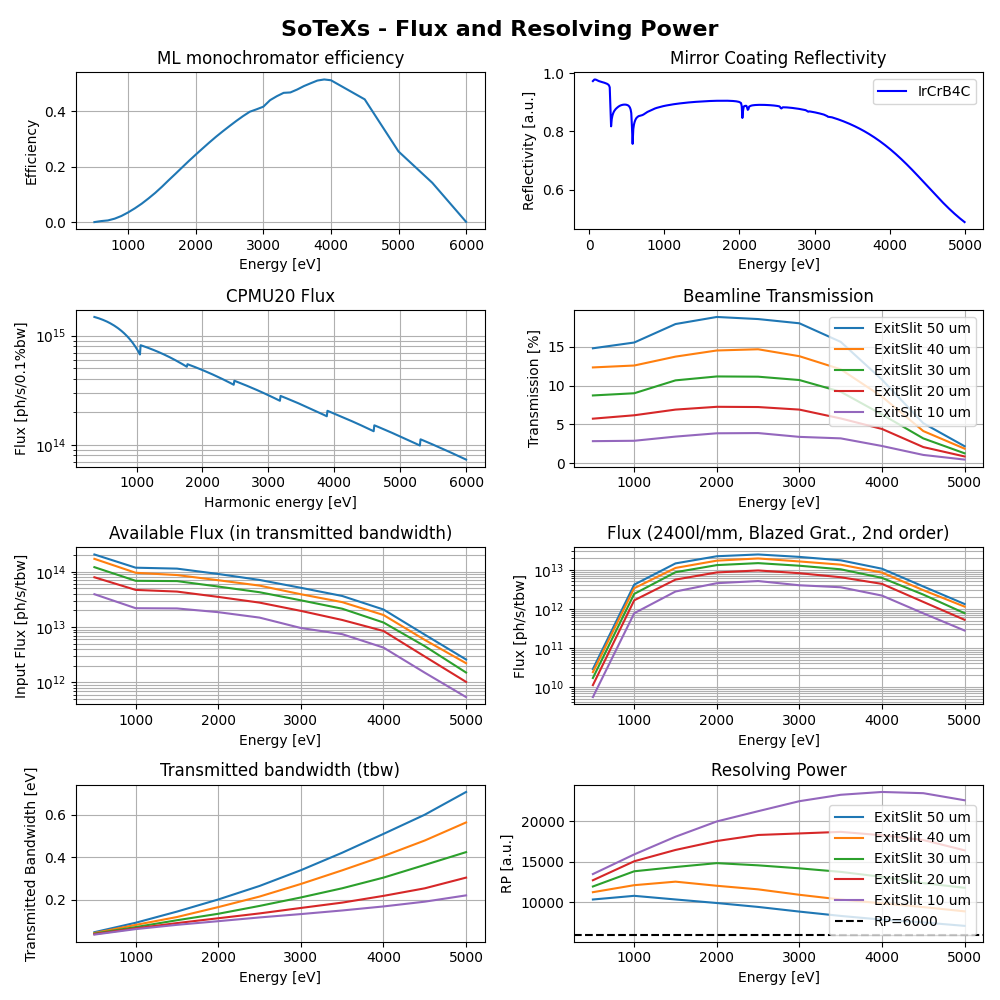
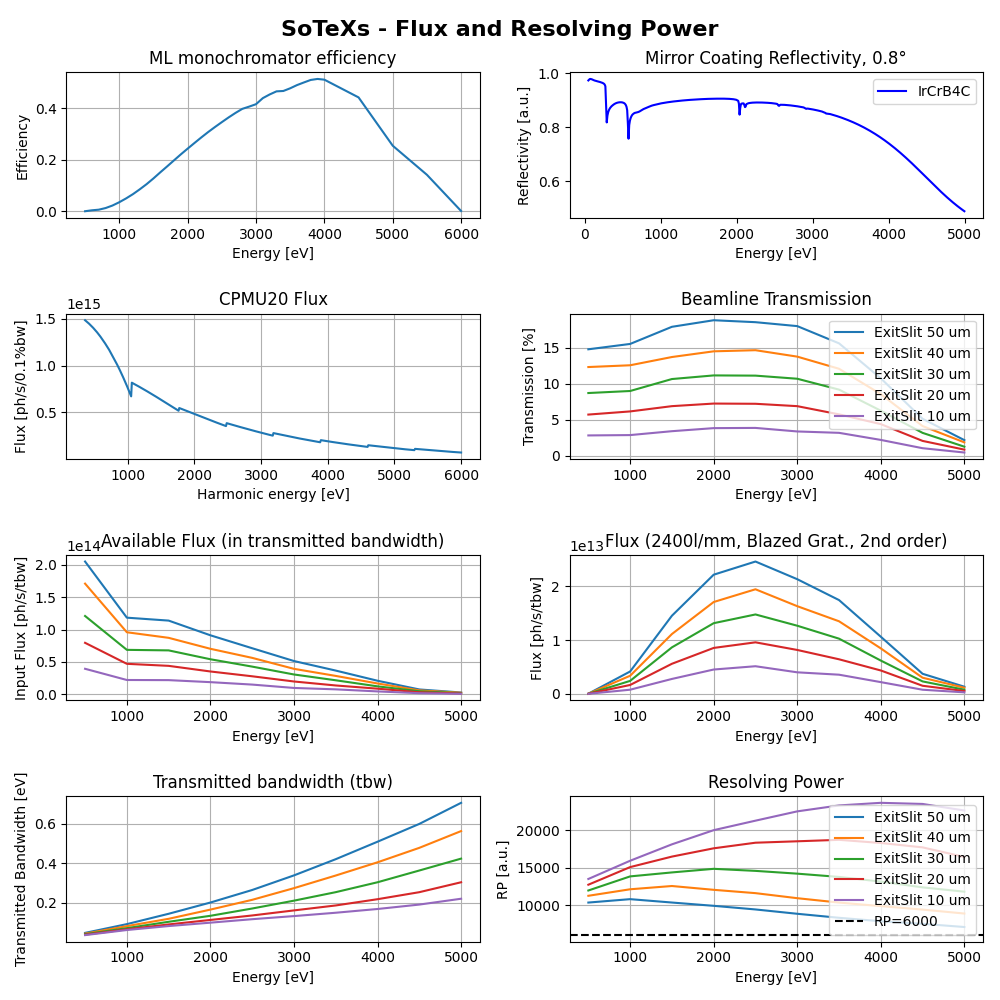
update

diff --git a/simulation/1/andrey_lib.py b/simulation/1/andrey_lib.py
@@ -3,6 +3,11 @@ import pandas as pd
 
 class AndreyML:
     def __init__(self, excel_file_name=None):
+        """Initialize AndreyML class instance.
+
+        Args:
+            excel_file_name (str, optional): Name of the Excel file to read data from. Defaults to None.
+        """
         
         self.excel_file_name = excel_file_name
         
@@ -16,7 +21,20 @@ class AndreyML:
                     'MLLG_mfm_first':6,
                     'MLLG_mrm_first':7}
 
-    def get_cff_for_ML(self,ind='MLBG_mfm_first', order=2, energy=np.arange(500, 5001,500),verbose=False):
+    def get_cff_for_ML(self, ind: str = 'MLBG_mfm_first', order: int = 2,
+                       energy: np.ndarray = np.arange(500, 5001, 500),
+                       verbose: bool = False) -> np.ndarray:
+        """Get cff for the multilayer depending on the energy.
+
+        Args:
+            ind (str, optional): Identifier of the correction factor. Defaults to 'MLBG_mfm_first'.
+            order (int, optional): Diffraction order. Defaults to 2.
+            energy (np.ndarray, optional): Array of energy values to interpolate the cff for. Defaults to np.arange(500, 5001, 500).
+            verbose (bool, optional): Whether to print the energy, alpha, beta, and cff values. Defaults to False.
+
+        Returns:
+            np.ndarray: Array of cff values interpolated for the input energy values.
+        """        
         ind          = self.ind_dict[ind]
         ml_pandas    = pd.read_excel(self.excel_file_name, header=(0,1,2,3))
         ml           = np.array(ml_pandas)
@@ -85,6 +103,9 @@ def ML_eff(ray_calc_eff, scale=None, ind=None, energy=None, grating_eff_file=Non
     de           = ml[:,6+10*ind]
     m2_eff       = np.interp(energy, energy_ml, m2)
     grat_eff     = np.interp(energy, energy_ml, grat)
+    print('###############')
+    for ind,en in enumerate(energy):
+        print(f'{en}, {m2_eff[ind]},  {grat_eff[ind]}')
     ray_calc_eff = ray_calc_eff*m2_eff*grat_eff
     return ray_calc_eff
 

diff --git a/simulation/1/produce_plot.py b/simulation/1/produce_plot.py
@@ -67,6 +67,7 @@ undulator = np.loadtxt(undulator_file, skiprows=8)
 
 fig, (axs) = plt.subplots(4, 2,figsize=(10,10))
 
+log = False
 ens_flux = energy_flux.shape[0]
 ens_rp   = energy_rp.shape[0]
 
@@ -99,7 +100,7 @@ IrCrB4C, _ = get_reflectivity(IrCrB4C, E=E, theta=theta)
 ax2=axs[0,1]
 ax2.set_xlabel('Energy [eV]')
 ax2.set_ylabel('Reflectivity [a.u.]')
-ax2.set_title('Mirror Coating Reflectivity')
+ax2.set_title(f'Mirror Coating Reflectivity, {theta}°')
 ax2.plot(E, IrCrB4C, 'b', label='IrCrB4C')
 ax2.legend()
 
@@ -108,7 +109,8 @@ ax2.legend()
 ax = axs[1,0]
 ax.plot(undulator[:,0], undulator[:,3])
 ax.grid(which='both', axis='both')
-ax.set_yscale('log')
+if log:
+    ax.set_yscale('log')
 ax.set_ylabel('Flux [ph/s/0.1%bw]')
 ax.set_xlabel('Harmonic energy [eV]')
 ax.set_title('CPMU20 Flux')
@@ -137,7 +139,8 @@ for ind, val in enumerate(SlitSize):
 
 ax.set_xlabel(r'Energy [eV]')
 ax.set_ylabel('Input Flux [ph/s/tbw]')
-ax.set_yscale('log')
+if log:
+    ax.set_yscale('log')
 ax.set_title('Available Flux (in transmitted bandwidth)')
 ax.grid(which='both', axis='both')
 # ax.legend()
@@ -158,7 +161,8 @@ for ind, val in enumerate(SlitSize):
 
 ax.set_xlabel(r'Energy [eV]')
 ax.set_ylabel('Flux [ph/s/tbw]')
-ax.set_yscale('log')
+if log:
+    ax.set_yscale('log')
 ax.set_title('Flux (2400l/mm, Blazed Grat., 2nd order)')
 ax.grid(which='both', axis='both')
 # ax.legend()
@@ -237,4 +241,4 @@ plt.suptitle('SoTeXs - Focus Size', fontsize=16, fontweight='bold')
 plt.tight_layout()
 plt.savefig('plot/battery_beamline_IrCrB4C_2order_focusSize.png')
 
-plt.show()
+# plt.show()
